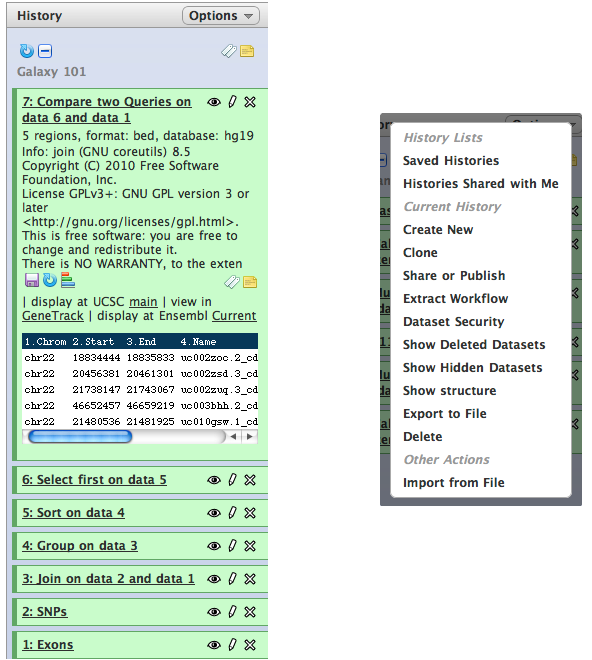
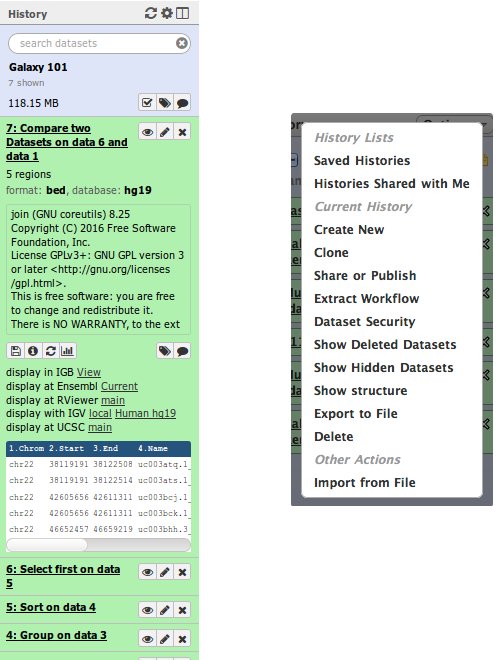
Text editing

diff --git a/basic.md b/basic.md
@@ -43,7 +43,8 @@ here make sure that
 
  * _**Create one BED record per**_ is set to **Coding Exons** 
   
-then click the **Send query to Galaxy** button.
+then click the **Send query to Galaxy** button.  
+(_Don't worry and continue if your browser show a message about an insecure connection_)
 
 After this you will see your first History item in Galaxy's right pane.
 It will go through grey (preparing) and yellow (running) states to become green.
@@ -71,7 +72,7 @@ where you need to make sure that **Whole Gene** is selected ("Whole Gene" here r
 Now we will rename the two history items to **Exons** and **SNPs** by clicking on the Pencil icon adjacent to each item. In the same manner, we will rename history to **Galaxy 101** (or whatever you prefer) by clicking on **Unnamed history**.
 
 ### Getting data from a Library 
-_This is an optional step_ just in case you have had  problem with two previous ones.
+_This is an optional step just in case you have had  problem with the two previous ones._  
 Some files have been also stored in a data library for you. On the upper panel select _**Shared Data**_ > _**Data Libraries**_", then click on the **Basic** folder and select all the bed files to then import them in the current history.
 
 # Finding the exon with the highest number of SNPs 
@@ -89,7 +90,7 @@ Make sure your exons are first and SNPs are second and click "Execute". You will
 |chr22 | 16287253  |  16287390  | uc002zlj.1_cds_8_0_chr22_16287254_r | 0  | -  | chr22 |  16287371  |  16287372 |   rs201840700  |   0  |   + |
 
 
-The first six columns come from the exon dataset, the last six from the SNPs.
+The first six columns come from the exon dataset, the last six from the SNPs. Depending on databases used, values on the table can be different.
 
 ## Counting the number of SNPs per exon 
 Above we've seen that exon uc002zlj.1_cds_4_0_chr22_16277748_r is repeated four times in the above dataset. Thus we can easily compute the number of SNPs per exon by simply counting the number of repetitions of name for each exon. This can be easily done with the "_**Join, Subtract, and Group**_ -> **Group** data by a column and perform aggregate operation on other columns" tool.
@@ -124,7 +125,7 @@ Now we know that in this dataset the five top exons contain between 1149 and 720
 The best way to learn about these exons is to look at their genomic surrounding. There is really no better way to do this than using genome browsers. Because this analysis was performed on "standard" human genome, you can directly send your dataset to the **UCSC Genome Browser** by using the _**display at UCSC main**_ link.
 
 # Understanding histories 
-In Galaxy your analyses live in histories such as this one on the left. Histories can be very large, you can have as many histories as you want, and all history behavior is controlled by the Options button on the top of the History panel:
+In Galaxy your analyses live in histories, see the image. Histories can be very large, you can have as many histories as you need, and all history behavior is controlled by the Options menu (the gear icon) on the top of the History panel:
 
 ![History](images/basic/history.png)
 
@@ -135,14 +136,16 @@ You can share your Galaxy items--histories, workflows, visualizations, and pages
  * using email addresses to share with individual users
  * using a web link to share with anyone who knows the link
 
-All sharing is done by selecting 'Share or Publish' from the item's menu; selecting this option takes you to a page where you can enable the share.
+All sharing is done by selecting _**Share or Publish**_ from the item's menu; selecting this option takes you to a page where you can enable the share.
 
-## Sharing with Individual Users 
-Find the section titled '_Share <Item_type> with Individual Users._' To share with another Galaxy user, click on the button in this section and enter his/her email address. You can share the item with as many users as you want.
+### Sharing with Individual Users 
+Find the section titled '_Share <Item_type> with Individual Users._' to share with another Galaxy user; click on the button in this section and enter his/her email address.
+
+You can share the item with as many users as you want.
 
 ![Share](images/basic/share01.png)
 
-## Sharing via Web Link and Publishing an Item 
+### Sharing via Web Link and Publishing an Item 
 Find the section titled '_Making <Item_type> Accessible via Link and Publish It._' The buttons in this section enable you to make an item accessible via link and/or publish it. Items accessible via link can be viewed by anyone that knows the link, and you can share an item by giving the link to other people.
 
 Sharing items via link is especially useful if you don't want to require that the person you're sharing with have a Galaxy account or be logged into Galaxy. You can change the text of an item's link by clicking on the pencil next to the link and typing in new text.
@@ -178,28 +181,34 @@ If you click on a triangle adjacent to the workflow's name you can click **Edit*
 ![Workflow](images/basic/wfEditor.png)
 
 ## Hiding intermediate steps 
-Among multiple things you can do with workflows I will just mention one. When workflow is executed one is usually interested in the final product and not in the intermediate steps. These steps can be hidden by mousing over a small asterisk in the lower right corner of every tool box.
+Among multiple things you can do with workflows I will just mention this one.
+
+When workflow is executed one is usually interested in the final product and not in the intermediate steps. These intermediate steps can be hidden by mousing over a small asterisk in the lower right corner of every tool box.
+
+![Hidden step](images/basic/hidden_step.png)
+
+In the history, you will only the datasets on the right.
 
 ## Renaming inputs 
 Right now both inputs to the workflow look exactly the same. This is a problem as will be very confusing which input should be exons and which should be SNPs.
 
 The top input dataset (the one with the blue border) connects to the Join tool first, so it must correspond to the exon data. If you click on this box you will be able to rename the dataset in the right pane.
 
-Then click on the second input dataset and rename it "Features" (this would make this workflow a bit more generic, which will be useful later in this tutorial):
+Then click on the second input dataset and rename it "**Features**" (this would make this workflow a bit more generic, which will be useful later in this tutorial):
 
 ## Renaming outputs 
-Finally let's rename the workflow's output. For this click on the last dataset ("Compare two Queries") and in the Edit Step Actions dialogue box select "Rename Dataset". Click Create and call it something like "top 5 exons".
+Finally let's rename the workflow's output. For this click on the last dataset "**Compare two Datasets**" in the **Configure Output** dialogue box look for the "Rename Dataset" form . Put inside it something like "top 5 exons".
 
 ## Save! It is important... 
-Now let's save the changes we've made by clicking **Options** (top of the center pane) and selecting **Save**.
+Now let's save the changes we've made by clicking **the gear icon** on top of the center panel and selecting **_Save_**.
 
 # Run workflow on another chromosome 
 
-Now that you have a workflow, you can repeat the previous analysis on your chromosome of choice.
+Now that you have a workflow, you can repeat the previous analysis on another chromosome of your choice.
 
 ## Create a new history 
 
-Before we start let's create a new history by clicking Options and selecting Create New.
+Before we start let's create a new history by clicking on the **gear icon** and selecting _**Create New**_.
 
 ## Get Exons and SNPs 
 
@@ -207,9 +216,9 @@ Repeat the steps above but insert a different chromosome in the "position" field
 
 ## Start the Workflow 
 
-At this point you will have two items in your history - one with exons and one with SNPs. Even if the datasets are not green yet, you do not have to wait as Galaxy will automatically start jobs once uploads have ended. So nothing stops us from starting the workflow we have created. First, click on the Workflow link at the top of Galaxy interface, mouse over "galaxy101", and click on the arrow.
+At this point you will have two items in your history - one with exons and one with SNPs. Even if the datasets are not green yet, you do not have to wait as Galaxy will automatically start jobs once uploads have ended. So nothing stops us from starting the workflow we have created. First, click on the Workflow link at the top of Galaxy interface, mouse over "galaxy101", and click on _**Run**_.
 
-Center pane will change to allow you launching the workflow. Select appropriate datasets for Exon and  inputs as shown below, scroll down, and click Run workflow.
+Center panel will change to allow you launching the workflow. Select appropriate datasets for Exon and  inputs as shown below, scroll down, and click Run workflow.
 
 ![Workflow](images/basic/launchWorkflow.png)
 
@@ -217,4 +226,4 @@ Once workflow has started you will initially be able to see all its steps.
 
 ![Workflow](images/basic/launchedWorkflow.png)
 
-Note that because all intermediate steps of the workflow were hidden, once it is finished you will only see the final dataset #7
+Note that because all intermediate steps of the workflow were _hidden_, once it is finished you will only see the final dataset #7

diff --git a/preprocessing.md b/preprocessing.md
@@ -29,7 +29,9 @@ Select **Data libraries** from the **Share Data** menu as shown in the figure be
 
 The files used during this session are contained into the **Quality control** folder inside the **Training** library
 
-Expand the Quality control folder and select the files containing the paired reads **''input_mate1.fastq**'' and **''input_mate2.fastq**''.
+Expand the Quality control folder and select the files containing the paired reads:
+ * **''input_mate1.fastq**''  
+ * **''input_mate2.fastq**''
 
 Locate the import button **to history** at the top of the page and click it.
 
@@ -84,6 +86,8 @@ We will use the **BWA-MEM** aligner to align the paired reads to the reference g
 ### Mapping reads with BWA-MEM 
 
 The next step is the alignment of the processed reads to the reference genome using BWA, a fast software package for mapping low-divergent sequences against a large reference genome, such as human.
+
+Select _**MAP with BWA-MEM**_ tool from the **NGS: Mapping** menu
  
  - Align the FASTQ files against the **hg19** reference genome.
  - **Is this library mate-paired?**: select ''Paired ends'' and choose the two filtered paired FastQ files 
@@ -108,10 +112,10 @@ The next step is the alignment of the processed reads to the reference genome us
 
 
 
-## Step 7: Display BAM data using the UCSC Genome Browser 
+## Step 6: Display BAM data using the UCSC Genome Browser 
 
 
-Select a bam output of **SAM to BAM** tool and choose the option ''Display at UCSC main''.
+Select the bam output of **Map with BWA-MEMM** tool and choose the option _**Display at UCSC main**_.
 
 
 ![Send to UCSC](images/preprocessing/ucsc_viewer.png)
@@ -132,7 +136,7 @@ Zoom-in at the level of a single exon and you should see the read pairs properly
 ## Part II - Building and running a workflow
 ---
 
-## Step 8: Extract a workflow from history 
+## Step 7: Extract a workflow from history 
 
 Open the history menu and click on **Extract Workflow**
 
@@ -142,7 +146,7 @@ Rename your workflow "bwa_align" and click on ![Button](images/preprocessing/cre
 
 ![Create workflow](images/preprocessing/create_workflow.png)
 
-## Step 9: Edit workflow 
+## Step 8: Edit workflow 
 
 Select the **Workflow** tab in the galaxy menu bar.
 
@@ -161,7 +165,7 @@ will be displayed in your history by checking the proper **check boxes**.
 
 ### Save and Run your workflow 
 
-Now can save your wokflow and  it again (using the top right menu)
+Now can save your wokflow and run it again (using the top right menu)
 
 
 **Run window**
